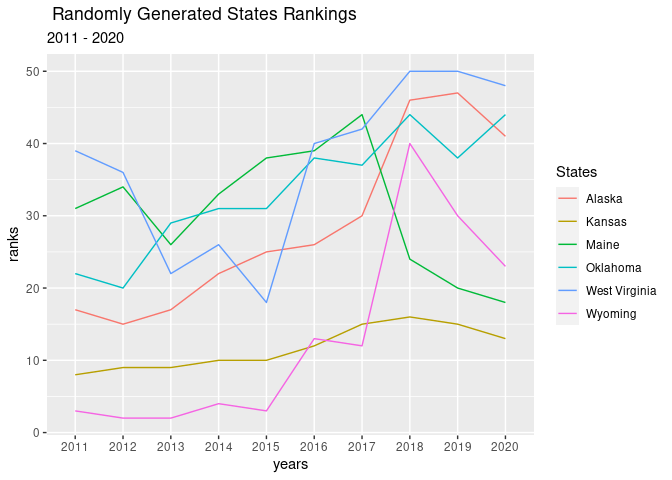
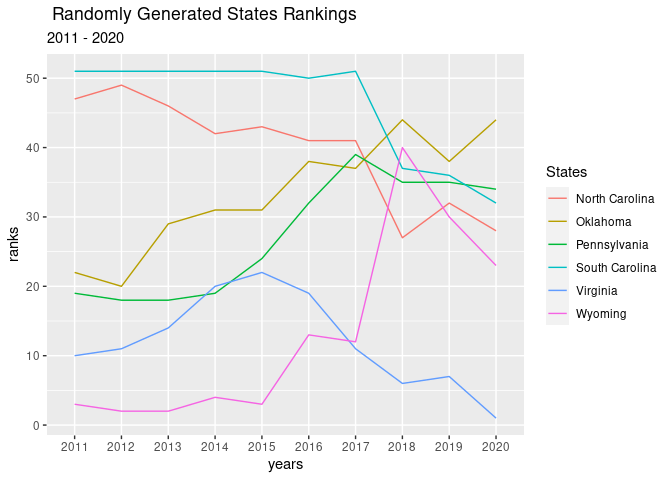
RANKING US STATES - FINAL - MD

diff --git a/Ranking_US_States_Analysis.md b/Ranking_US_States_Analysis.md
@@ -2728,7 +2728,7 @@ index = sample(1:nrow(Final), 6,replace = TRUE)
 index
 ```
 
-    ## [1] 27 30 10  6 43 25
+    ## [1] 44 12 27 24 50  6
 
 ``` r
 Random_states <- Final[index,] 
@@ -2876,7 +2876,7 @@ summary(y)
 ```
 
     ##    Min. 1st Qu.  Median    Mean 3rd Qu.    Max. 
-    ##   24.91   24.91   24.91   24.91   24.91   24.91
+    ##    34.9    34.9    34.9    34.9    34.9    34.9
 
 ``` r
 #plotting economics versus overall rank as per the simulated model
